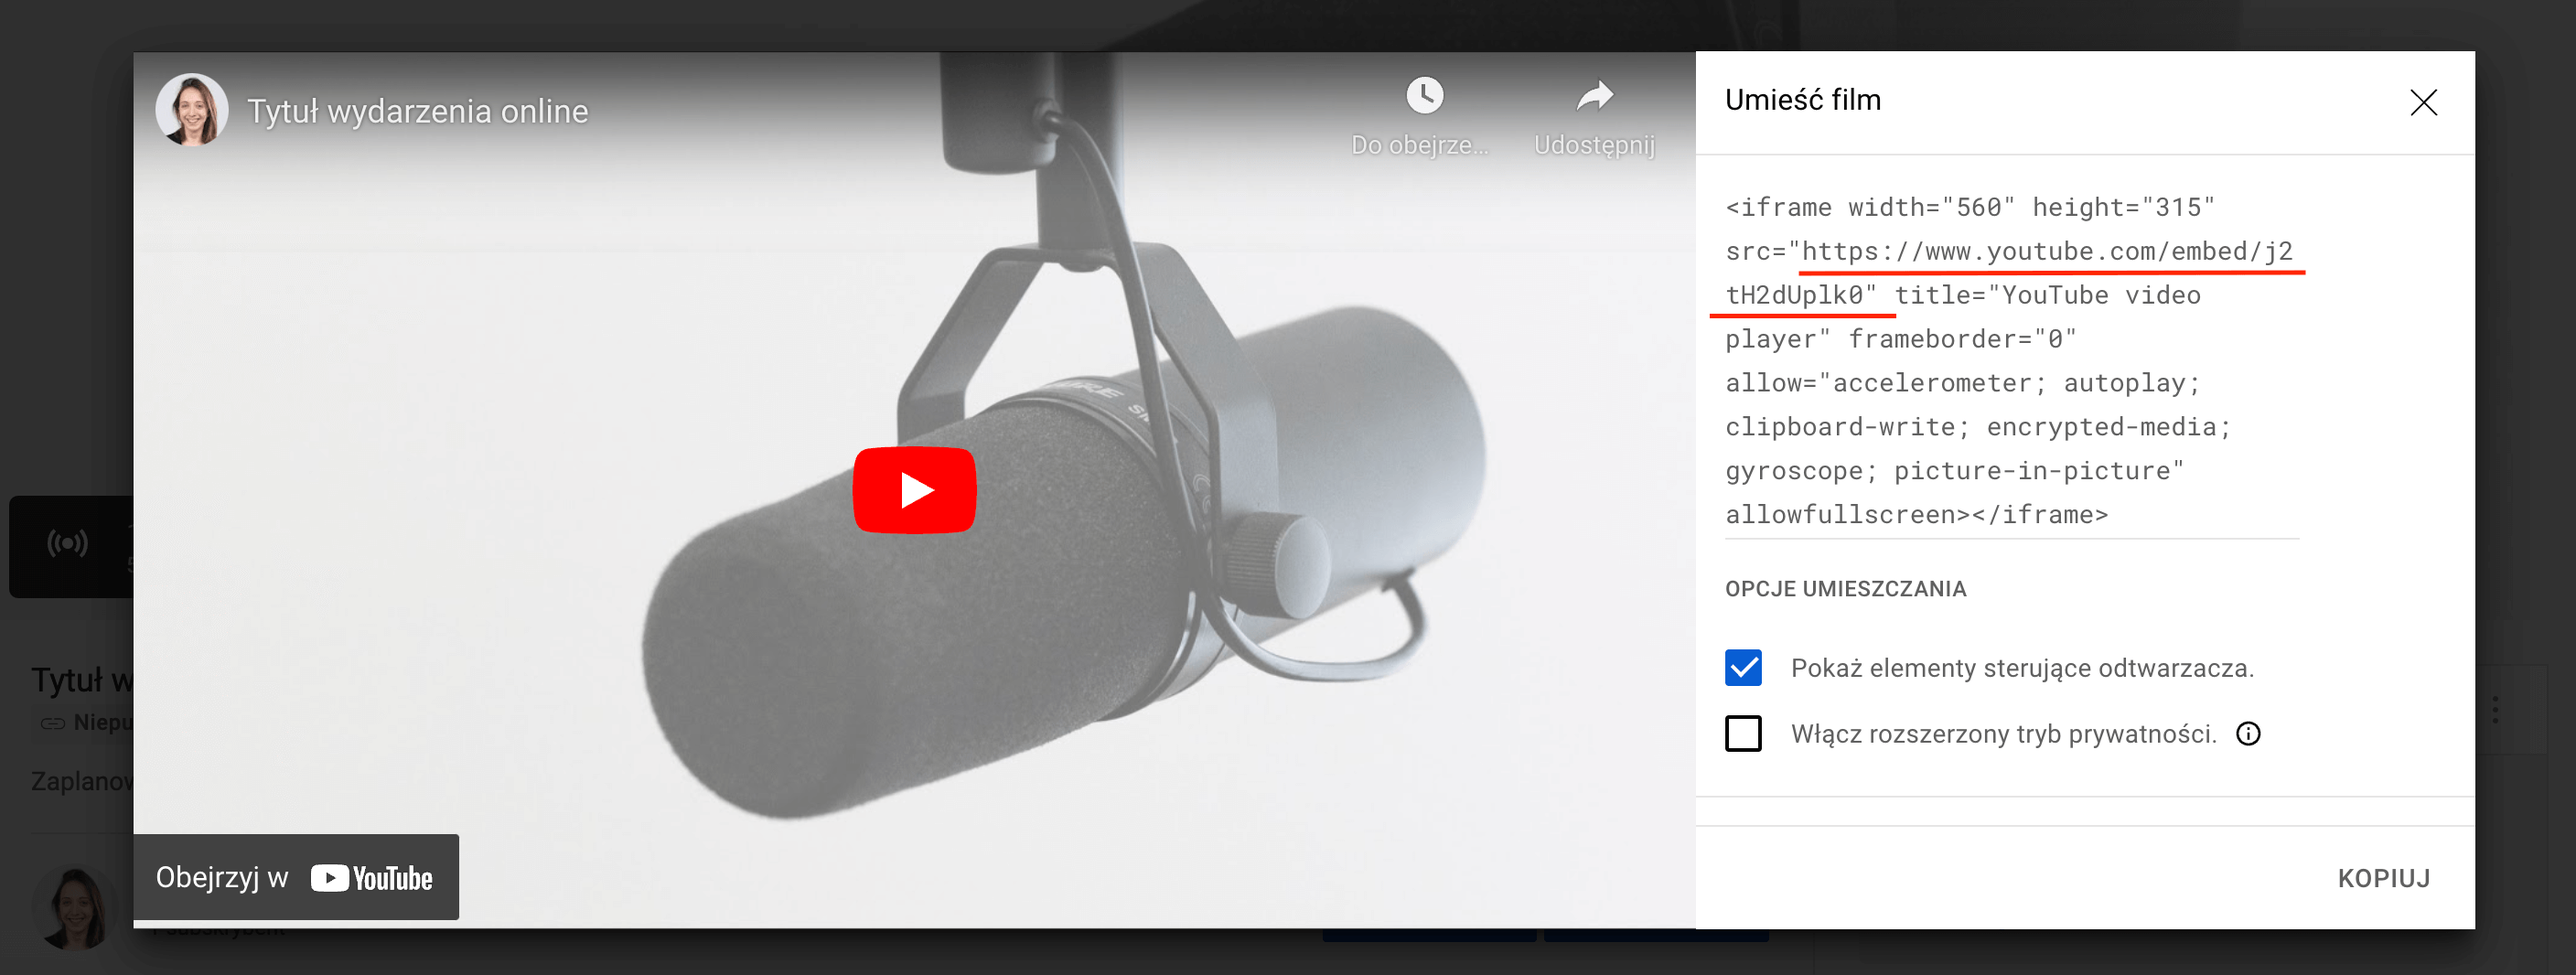
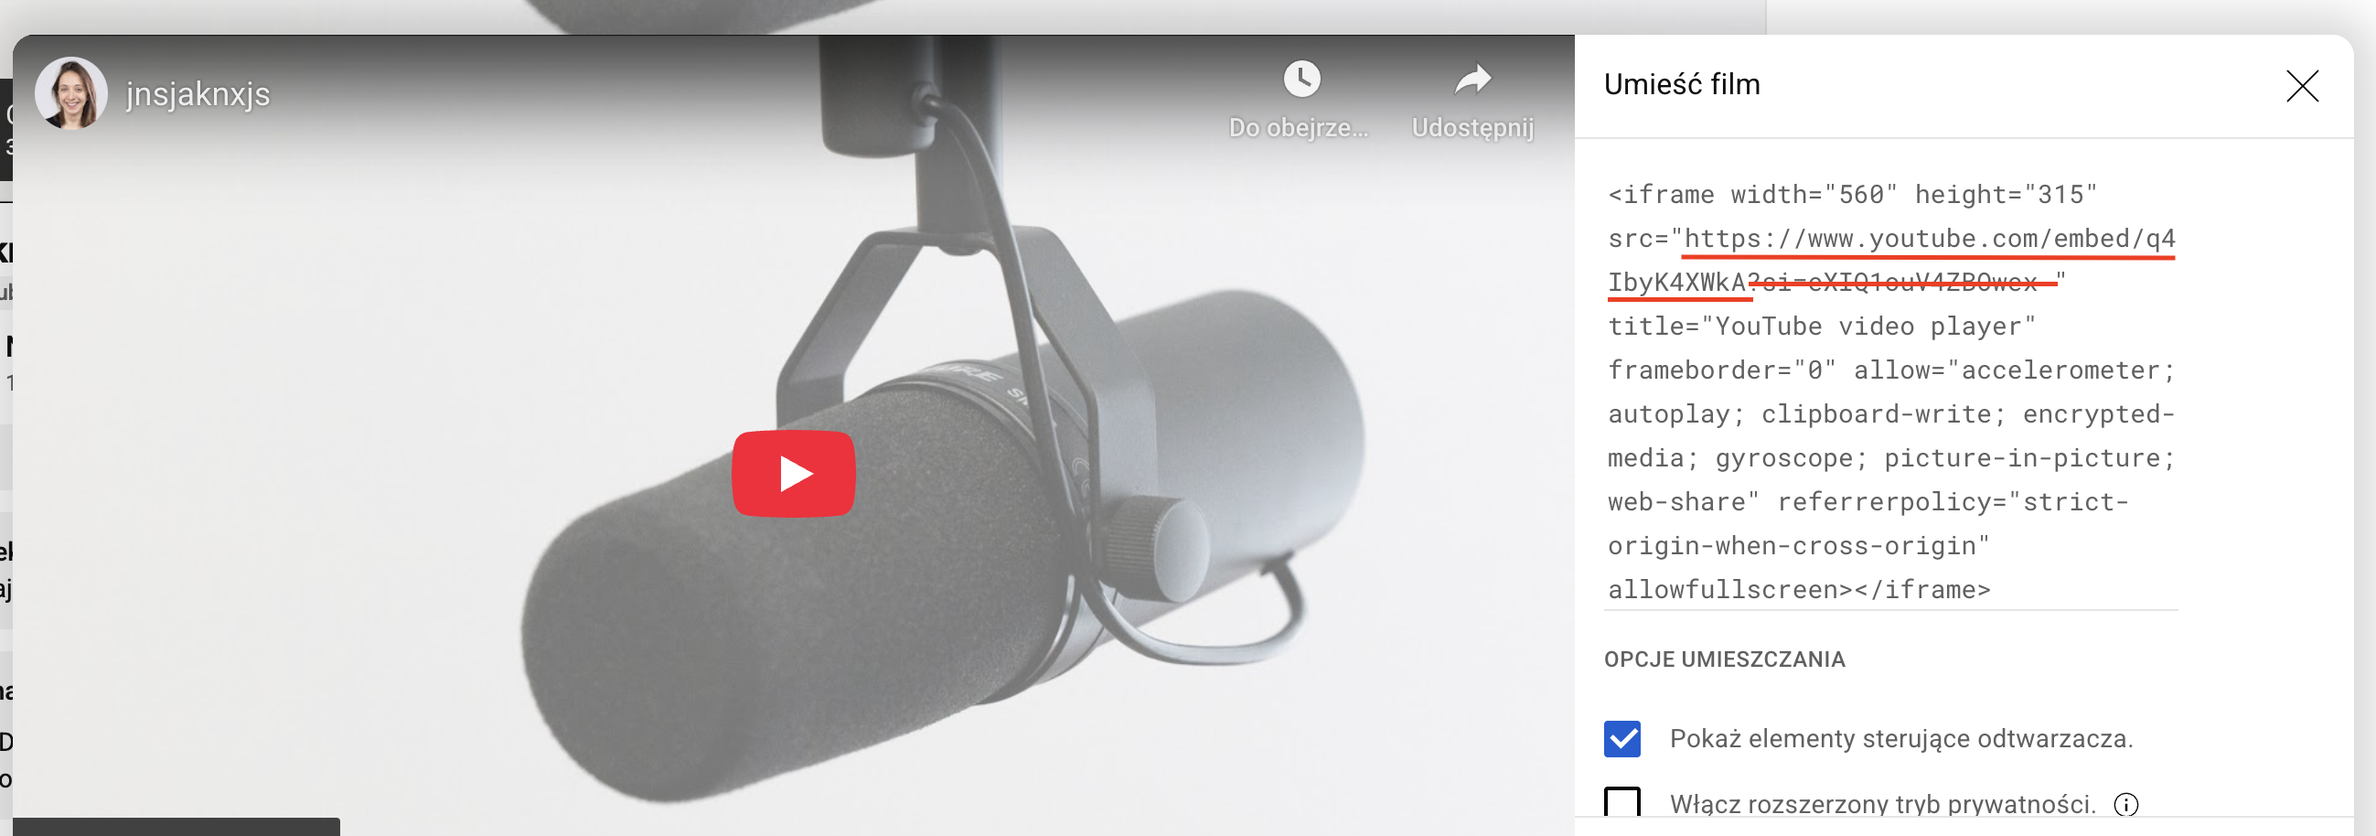
live and sale update

diff --git a/docs/live.md b/docs/live.md
@@ -57,7 +57,7 @@ Po zalogowaniu utwórz produkt typu live. Aby to zrobić przejdź do **PRODUKTY 
 
 ![screen-skyier-live-1](./images/screen-skyier-live-1.png)
 
-Teraz możesz ewentualnie zmienić tytuł live i uzupełnić opis Wydarzenia. Możesz wpisać kilka słów na temat tego, czego będzie ono dotyczyło. Potraktuj to jako miejsce na tzw. lead (zajawkę). A nie opis całego wydarzenia. To możesz zrobić na stronie sprzedażowej.
+Teraz możesz ewentualnie zmienić tytuł live i uzupełnić opis Wydarzenia. Możesz wpisać kilka słów na temat tego, czego będzie ono dotyczyło. Potraktuj to jako miejsce na tzw. lead (zajawkę). A nie opis całego wydarzenia. Opis całego wydarzenia zalecam zrobić na stronie sprzedażowej.
 
 W sekcji WYDARZENIE podaj:
 
@@ -65,13 +65,19 @@ W sekcji WYDARZENIE podaj:
 
 ![screen-skyier-live-2](./images/screen-skyier-live-2.png)
 
+* **redirect url** - tutaj wprowadź link do webinaru, na jaki mają zostać przekierowani uczestnicy. Jeśli przykładowo organizujesz webinar na Zoom'ie dodaj w tym miejscu link do pokoju webinarowego stworzonego właśnie na Zoom'ie. W momencie, jak użytkownicy zalogują się do platformy w celu oglądania webinaru -> po kliknięciu w produkt zostaną przekierowani bezpośrednio do oglądania webinaru na Zoom'ie. Czyli "wyjdą" z platformy i przejdą bezpośrednio na webinar. 
+
+![screen-skyier-live-3](./images/screen-click-live.png)
+
 * **video embed url** - tutaj wprowadź ten link, który pobrałeś wcześniej z YouTube. 
-Będzie to link w takiej postaci: https://www.youtube.com/embed/j2tH2dUplk0. Oczywiście w Twoim wypadku będą inne te cyferki na końcu.
+Będzie to link w takiej postaci: https://www.youtube.com/embed/j2tH2dUplk0. Oczywiście w Twoim wypadku będą inne te cyferki na końcu. Co ważne nie dodawaj cyferek, które są po znaku "?si". 
 * **chat embed url** - jeśli chcesz dodatkowo dodać czat dodaj tam link w takiej postaci:
-https://www.youtube.com/live_chat?v=TWOJE-CYFERKI-ZE-WCZESNIEJSZEGO-LINKU&embed_domain=TWOJA-NAZWA-DOMENY
+https://www.youtube.com/live_chat?v=TWOJE-CYFERKI-ZE-WCZESNIEJSZEGO-LINKU&embed_domain=TWOJA-NAZWA-DOMENY. Co ważne nie dodawaj cyferek, które są po znaku "?si".
+
+![screen-YT-8](./images/screen-YT-8.png)
 
 
-Możesz również zrobić wydarzenie, jako:
+Możesz zrobić wydarzenie, jako:
 * **darmowe** - wówczas, jeśli użytkownik chce je obejrzeć będzie musiał założyć konto na platformie (jeśli jeszcze nie posiada). 
 * **płatne** - użytkownik który zakupi dostęp będzie mógł wziąć udział w wydarzeniu. Wówczas w dniu webinaru będzie musiał zalogować się do platformy.
 
@@ -82,3 +88,15 @@ Jeśli natomiast chcesz zostawić dodatkowe informacje osobom zapisanym na webin
 ![screen-skyier-live-3](./images/screen-skyier-live-3.png)
 
 **Ważne** Po zakończeniu transmisji YouTube automatycznie nagra Ci wideo. Wideo to będzie również dostępne w platformie. Jeśli nie chcesz, aby była możliwość jego późniejszego oglądania to usuń to wideo z YT lub usuń ze Skyier embed url. 
+
+### Przekształć w kurs online
+
+![screen-skyier-live-4](./images/screen-live-course-online.png)
+
+Skorzystaj z tej opcji, jeśli chcesz nadal sprzedawać dostęp do tego szkolenia online. I dodatkowo dodać do niego materiały, takie jak prezentacja, pliki, grafiki, itp. 
+
+Osoby, które wykupiły dostęp do tego live'a po **Przekształceniu tego produktu w kurs online nadal będą miały do niego dostęp.** I dodatkowo otrzymają dostęp do materiałów, które do niego dodasz. 
+
+Zmieni się też widok panelu oglądania od strony uczestnika. Panel "webinarowy" zamieni się na panel "kursu online". Czyli taki, jak widać poniżej. 
+
+![screen-skyier-live-5](./images/screen-course-online-panel.png)

diff --git a/docs/sales.md b/docs/sales.md
@@ -129,10 +129,10 @@ Cena po uwzględnieniu kodu rabatowego (zakładając, że ustawimy kod rabatowy 
 
 Ta opcja jest dla osób, które:
 
-* Mają podpiętą integrację z jakimś systemem do fakturowania (InFakt, Fakturownia)
-* Sprzedają produkty online, które mają inną stawkę VAT niż standardowa stawka VAT ustawiona w integracji
+* Mają podpiętą integrację z jakimś systemem do fakturowania (InFakt, Fakturownia, itp.)
+* Sprzedają produkty online, które mają inną stawkę VAT niż standardowa stawka VAT ustawiona w integracji.
 
-Przykład: Jeśli Twoją standardową stawką VAT jest 23%, ale sprzedajesz ebook, dla którego stawka VAT wynosi 5% to wówczas ustaw ją przy tym produkcie. W innym przypadku będzie naliczana Twoja standardowa stawka, czyli np. 23%. 
+Przykład: Jeśli Twoją standardową stawką VAT jest 23%, ale sprzedajesz ebook, dla którego stawka VAT wynosi 5% to wówczas ustaw ją przy tym konkretnym produkcie. W innym przypadku zostanie naliczana Twoja standardowa stawka, czyli np. 23%. 
 
 <br/>
 
@@ -622,11 +622,24 @@ Aby włączyć limit sprzedaży produktu należy wejść w **Edycję produktu.**
 
 ![screen-edycja-kursu](./images/screen-edycja-kursu.jpg)
 
-A następnie przejść do **sekcji SZCZEGÓŁY** i włączyć opcję *Ograniczona ilość miejsc*. Należy podać ilość produktów oferowanych sprzedaży oraz, od kiedy ma być naliczany limit. 
+A następnie przejść do **sekcji SZCZEGÓŁY** i włączyć opcję *Ograniczona ilość miejsc*. Należy podać ilość produktów oferowanych w sprzedaży oraz, od kiedy ma być naliczany limit. 
 
 ![screen-wylaczenie-sprzedaz-1](./images/screen-ograniczona-ilosc.png)
 
 Po wyprzedaniu wszystkich ilości na stronie sprzedażowej (checkoucie) napis na przycisku zakupowym zmieni się z *Kupuję i płacę* na *Produkt wyłączony ze sprzedaży* i dalszy zakup produktu nie będzie możliwy. 
 
 ![screen-wylaczenie-sprzedaz-2](./images/screen-wylaczenie-sprzedaz-2.png)
+
+## Limit dostępu do produktu
+
+Aby włączyć limit sprzedaży produktu należy wejść w **Edycję produktu.** 
+
+![screen-edycja-kursu](./images/screen-limit-dostepu.png)
+
+A następnie przejść do **sekcji SZCZEGÓŁY** i ustawić limit dostępu do produktu.  
+
+Można ustawić limit:
+
+* **czasowy** - pozwala przydzielić dostęp do produktu np. na 90 dni. Odliczanie zaczyna się od dnia dokonania zakupu przez użytkownika. 
+* **w oparciu o datę** - należy wybrać datę, do kiedy uczestnicy powinni mieć dostęp do produktu. Po tej dacie dostęp zostanie odebrany automatycznie. 
 
